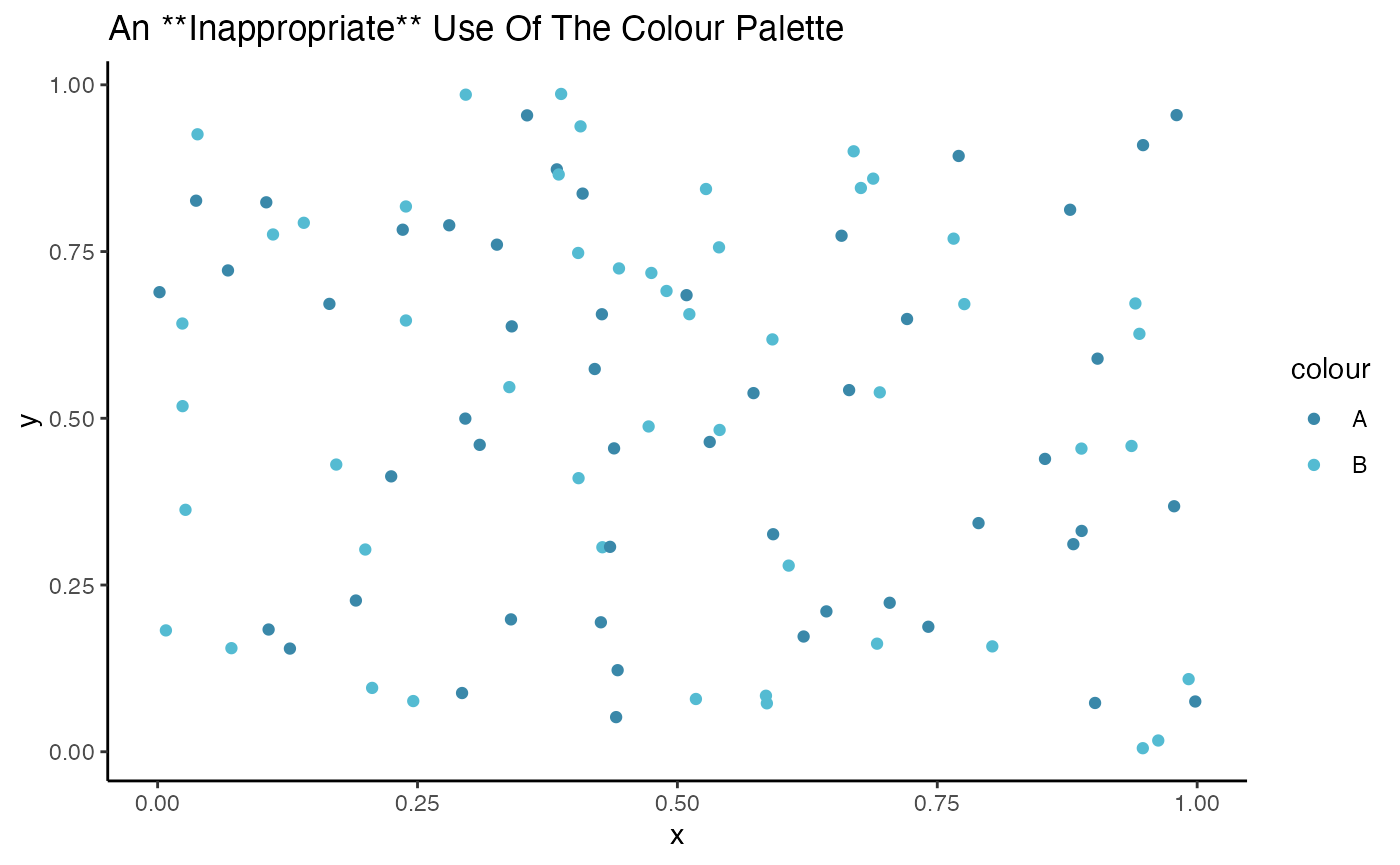
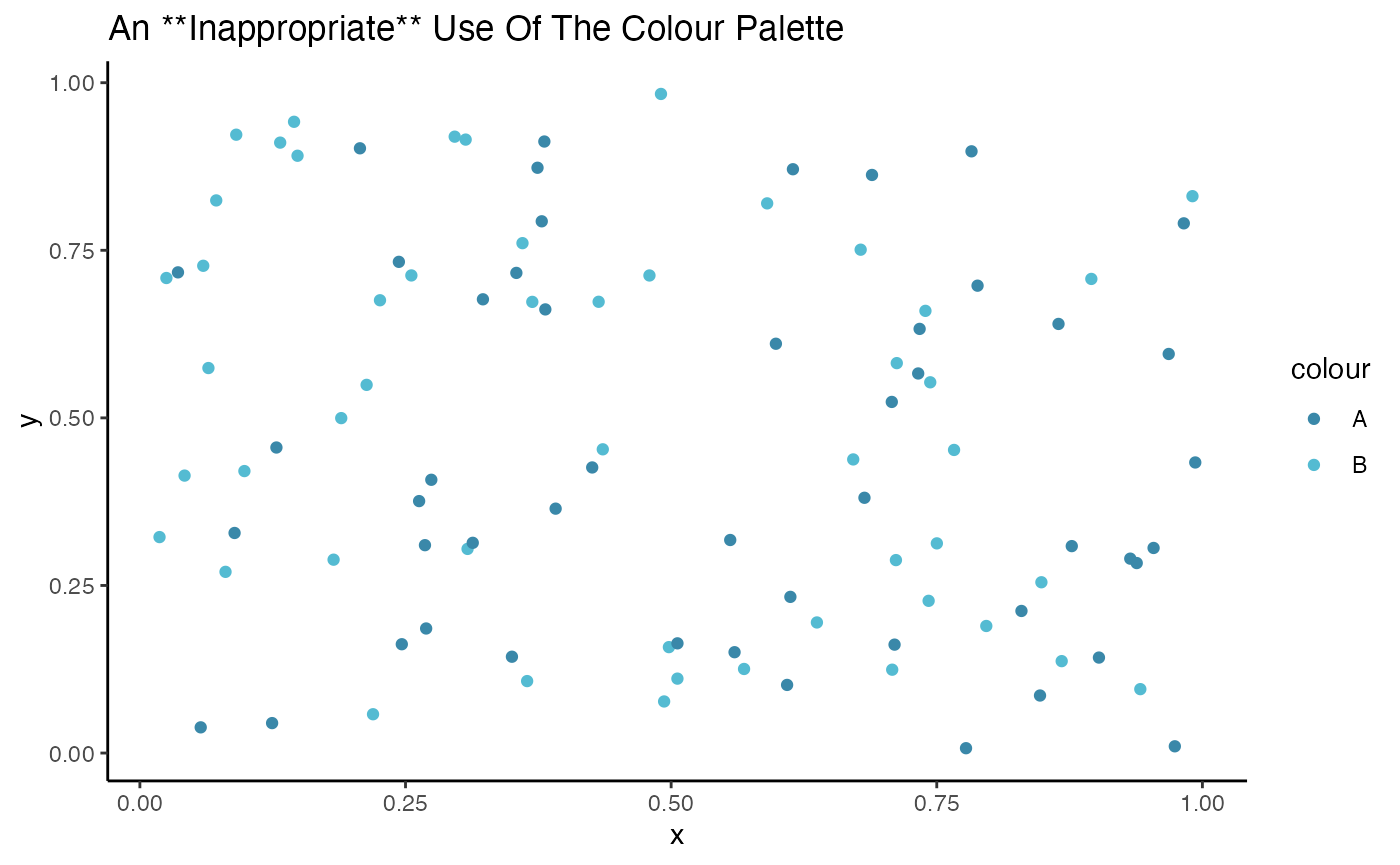
Adding MRCHGU ctb

diff --git a/docs/articles/HGUTheme.html b/docs/articles/HGUTheme.html
@@ -166,18 +166,18 @@ regression line on top. First we can make some fake data</p>
 <span><span class="op">)</span></span>
 <span><span class="va">plot_data</span></span>
 <span><span class="co">#&gt; <span style="color: #949494;"># A tibble: 100 × 2</span></span></span>
-<span><span class="co">#&gt;        x      y</span></span>
-<span><span class="co">#&gt;    <span style="color: #949494; font-style: italic;">&lt;dbl&gt;</span>  <span style="color: #949494; font-style: italic;">&lt;dbl&gt;</span></span></span>
-<span><span class="co">#&gt; <span style="color: #BCBCBC;"> 1</span> 0.748  0.801</span></span>
-<span><span class="co">#&gt; <span style="color: #BCBCBC;"> 2</span> 0.926  0.823</span></span>
-<span><span class="co">#&gt; <span style="color: #BCBCBC;"> 3</span> 0.397  0.420</span></span>
-<span><span class="co">#&gt; <span style="color: #BCBCBC;"> 4</span> 0.120 -<span style="color: #BB0000;">0.122</span></span></span>
-<span><span class="co">#&gt; <span style="color: #BCBCBC;"> 5</span> 0.209  0.248</span></span>
-<span><span class="co">#&gt; <span style="color: #BCBCBC;"> 6</span> 0.628  0.793</span></span>
-<span><span class="co">#&gt; <span style="color: #BCBCBC;"> 7</span> 0.260  0.318</span></span>
-<span><span class="co">#&gt; <span style="color: #BCBCBC;"> 8</span> 0.326  0.471</span></span>
-<span><span class="co">#&gt; <span style="color: #BCBCBC;"> 9</span> 0.458  0.513</span></span>
-<span><span class="co">#&gt; <span style="color: #BCBCBC;">10</span> 0.544  0.741</span></span>
+<span><span class="co">#&gt;        x       y</span></span>
+<span><span class="co">#&gt;    <span style="color: #949494; font-style: italic;">&lt;dbl&gt;</span>   <span style="color: #949494; font-style: italic;">&lt;dbl&gt;</span></span></span>
+<span><span class="co">#&gt; <span style="color: #BCBCBC;"> 1</span> 0.357  0.441 </span></span>
+<span><span class="co">#&gt; <span style="color: #BCBCBC;"> 2</span> 0.253  0.075<span style="text-decoration: underline;">9</span></span></span>
+<span><span class="co">#&gt; <span style="color: #BCBCBC;"> 3</span> 0.151  0.044<span style="text-decoration: underline;">5</span></span></span>
+<span><span class="co">#&gt; <span style="color: #BCBCBC;"> 4</span> 0.200 -<span style="color: #BB0000;">0.378</span> </span></span>
+<span><span class="co">#&gt; <span style="color: #BCBCBC;"> 5</span> 0.328  0.558 </span></span>
+<span><span class="co">#&gt; <span style="color: #BCBCBC;"> 6</span> 0.147  0.213 </span></span>
+<span><span class="co">#&gt; <span style="color: #BCBCBC;"> 7</span> 0.479  0.578 </span></span>
+<span><span class="co">#&gt; <span style="color: #BCBCBC;"> 8</span> 0.289  0.284 </span></span>
+<span><span class="co">#&gt; <span style="color: #BCBCBC;"> 9</span> 0.342  0.115 </span></span>
+<span><span class="co">#&gt; <span style="color: #BCBCBC;">10</span> 0.131  0.311 </span></span>
 <span><span class="co">#&gt; <span style="color: #949494;"># … with 90 more rows</span></span></span></code></pre></div>
 <p>Then we can make a simple plot that you might make for a
 presentation:</p>

diff --git a/docs/index.html b/docs/index.html
@@ -190,6 +190,7 @@
 <a href="https://hwarden.com" class="external-link">Hugh Warden</a> <br><small class="roles"> Author, maintainer </small> <a href="https://orcid.org/YOUR-ORCID-ID" target="orcid.widget" aria-label="ORCID" class="external-link"><span class="fab fa-orcid orcid" aria-hidden="true"></span></a> </li>
 <li>
 <a href="https://jeskowagner.github.io/" class="external-link">Jesko Wagner</a> <br><small class="roles"> Author </small> <a href="https://orcid.org/YOUR-ORCID-ID" target="orcid.widget" aria-label="ORCID" class="external-link"><span class="fab fa-orcid orcid" aria-hidden="true"></span></a> </li>
+<li><a href="authors.html">More about authors...</a></li>
 </ul>
 </div>
 

diff --git a/docs/authors.html b/docs/authors.html
@@ -57,6 +57,10 @@
           <p><strong><a href="https://jeskowagner.github.io/" class="external-link">Jesko Wagner</a></strong>. Author. <a href="https://orcid.org/YOUR-ORCID-ID" target="orcid.widget" aria-label="ORCID" class="external-link"><span class="fab fa-orcid orcid" aria-hidden="true"></span></a>
           </p>
         </li>
+        <li>
+          <p><strong> MRC Human Genetics Unit</strong>. Contributor. <a href="https://orcid.org/YOUR-ORCID-ID" target="orcid.widget" aria-label="ORCID" class="external-link"><span class="fab fa-orcid orcid" aria-hidden="true"></span></a>
+          </p>
+        </li>
       </ul></div>
 
     <div class="section level2 citation">
